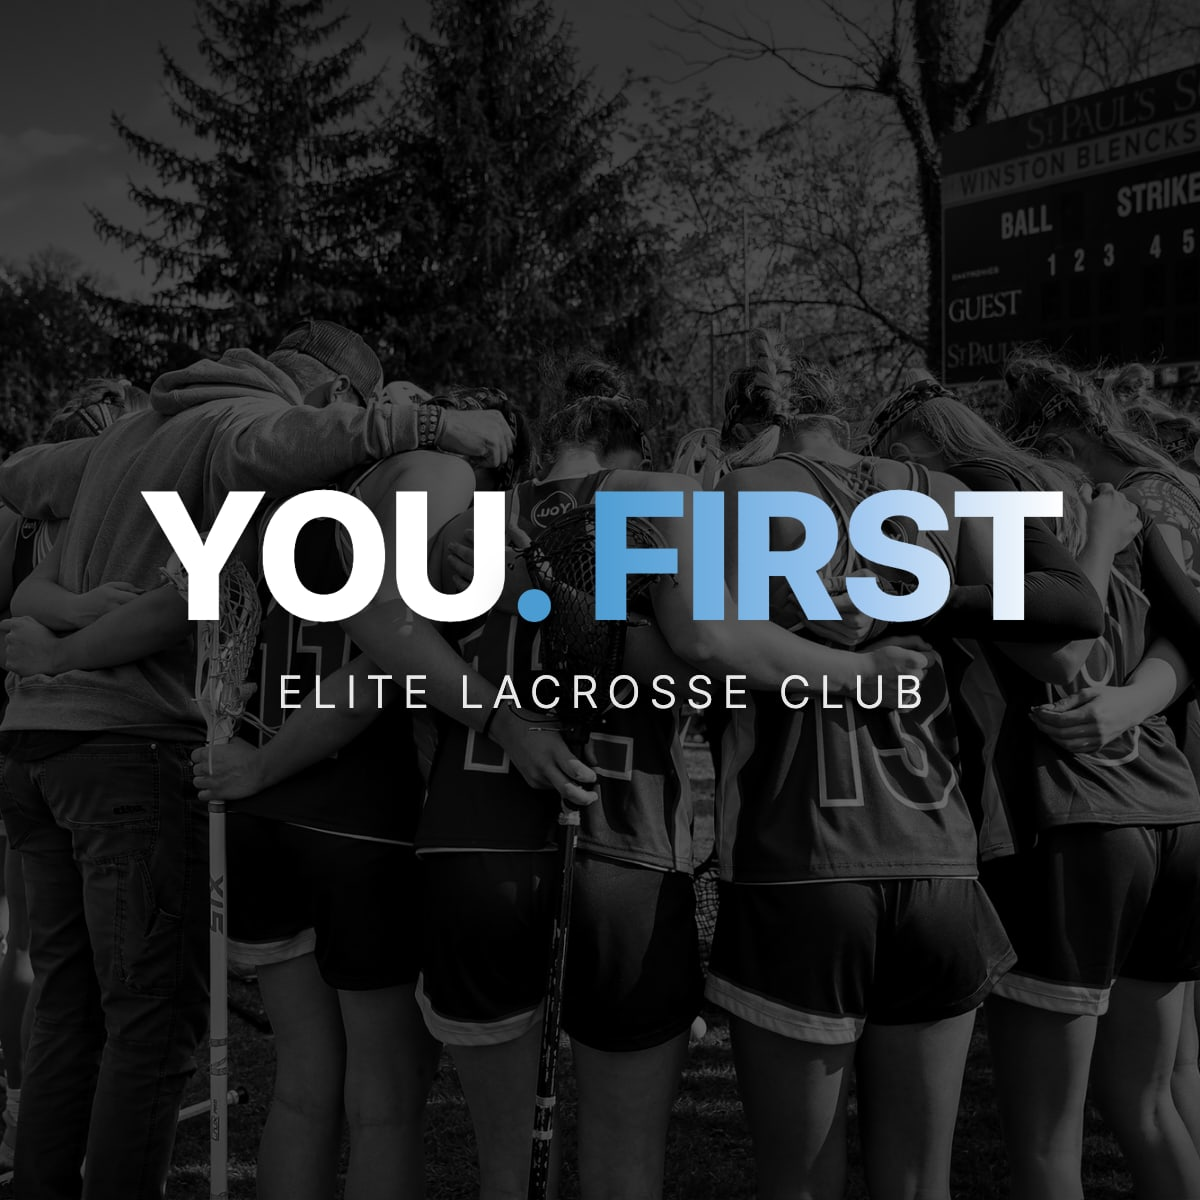
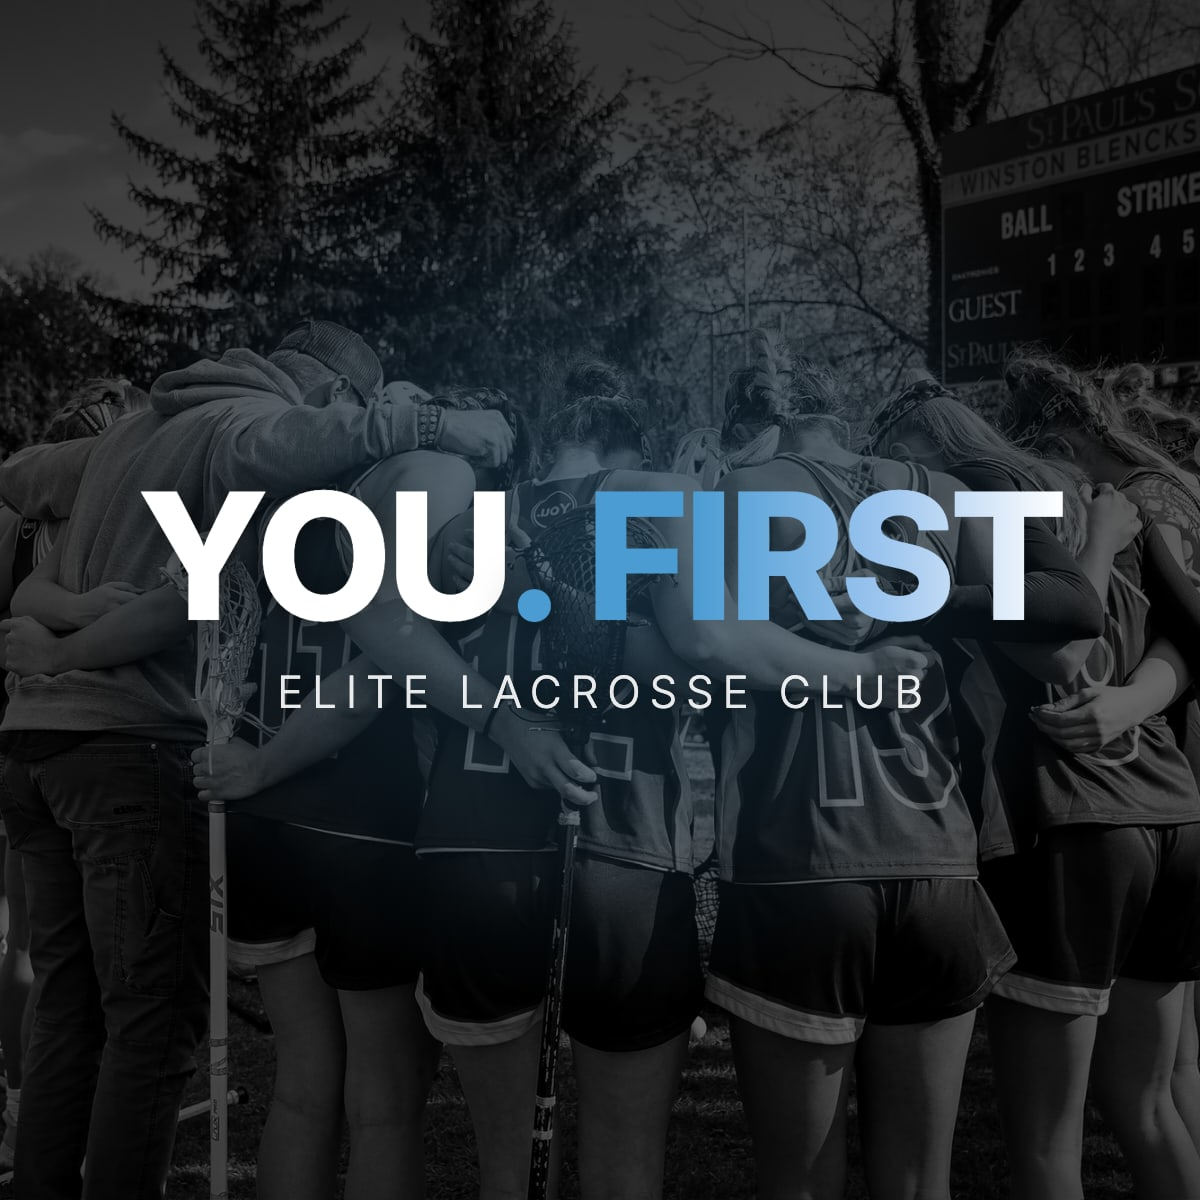
fix(share): stronger white-blue signature gradient + Carolina glow; www metadataBase
Blue holds through 'FIR' before washing to white (gradient splash reads at
thumbnail size); subtle Carolina radial glow behind the lockup — the site's
dark-section treatment. metadataBase → www so og:image URLs return a direct
200 instead of the apex 307 for link scrapers.

Changed region(s): [[0.2158, 0.2158, 0.8017, 0.7092], [0.2467, 0.4317, 0.3083, 0.4933]]

diff --git a/src/app/layout.tsx b/src/app/layout.tsx
@@ -23,7 +23,9 @@ export const metadata: Metadata = {
     "Southern Ohio lacrosse",
     "girls club lacrosse",
   ],
-  metadataBase: new URL("https://youfirstlacrosse.com"),
+  // www is the serving host (apex 307-redirects to it) — keeps og:image URLs
+  // resolving with a direct 200 for link scrapers.
+  metadataBase: new URL("https://www.youfirstlacrosse.com"),
   alternates: {
     canonical: "/",
   },
